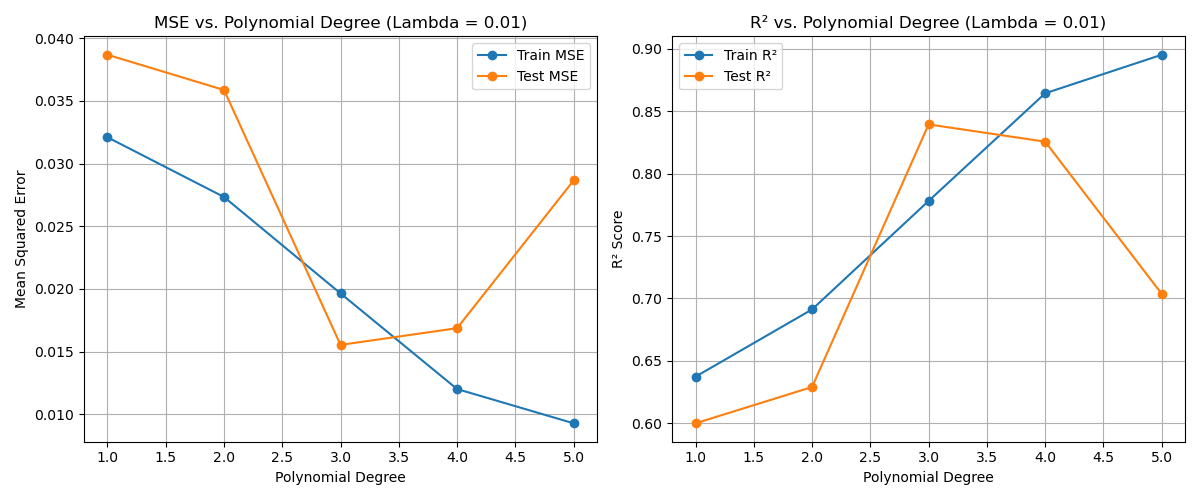
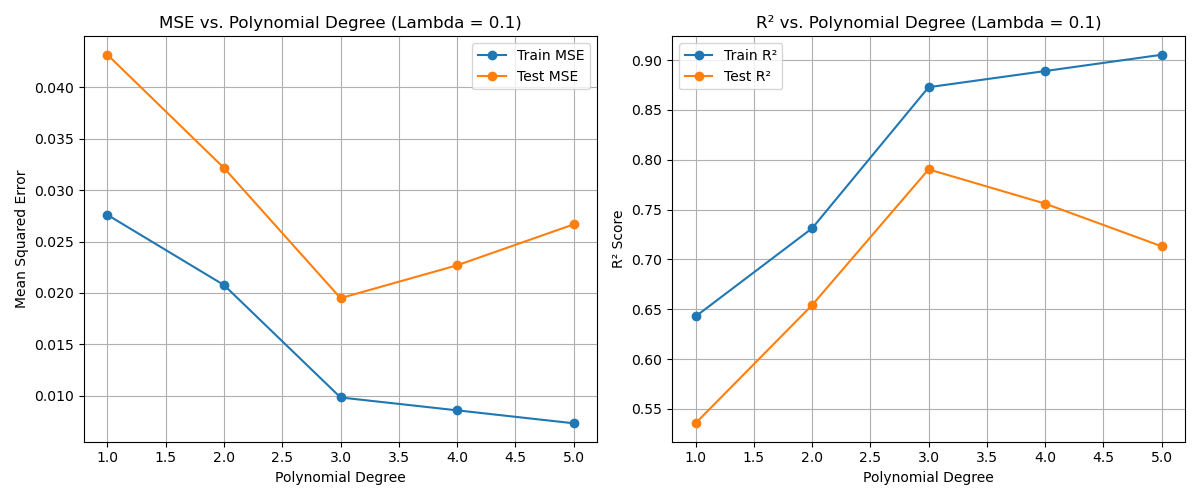
added some plot and refactor.

diff --git a/src/neural_network.py b/src/neural_network.py
@@ -14,8 +14,12 @@ sys.path.append(os.path.dirname(os.path.dirname(os.path.abspath(__file__))))
 from sklearn.metrics import mean_squared_error, r2_score
 from sklearn.model_selection import GridSearchCV, train_test_split
 import numpy as np
-from methods import franke_function, save_plot
-from project1_methods import ols_regression, ridge_regression
+from project1_methods import (
+    ols_regression,
+    ridge_regression,
+    franke_function,
+    save_plot,
+)
 import matplotlib.pyplot as plt
 from sklearn.preprocessing import StandardScaler
 import pandas as pd
@@ -475,7 +479,7 @@ def plot_ols(res):
 
 
 def plot_ridge(result):
-    lambda_to_plot = 0.01  # Choose the lambda value you want to visualize
+    lambda_to_plot = 0.1  # Choose the lambda value you want to visualize
 
     plt.figure(figsize=(12, 5))
 
@@ -529,7 +533,6 @@ if __name__ == "__main__":
     input = sys.argv[1]
     print(input)
     if input == "reg":
-        X_train, X_test, z_train, z_test, scaler_Z = generate_data()
         ols_res = ols_regression()
         plot_ols(ols_res)
 
@@ -538,8 +541,7 @@ if __name__ == "__main__":
 
         ffnn_res = eval_ffnn()
 
-        # print(f"OLS: {ols_res}")
-        # print(f"Ridge: {ridge_res}")
+        X_train, X_test, z_train, z_test, scaler_Z = generate_data()
         param_grid = {
             "learning_rate_init": [0.0001, 0.001, 0.01, 0.1],
             "alpha": [1e-6, 1e-4, 1e-2, 1e-1],

diff --git a/project1_methods.py b/project1_methods.py
@@ -64,7 +64,7 @@ def ols_regression(n=100, noise=0.1, max_degree=5):
 
 
 def ridge_regression(n=100, noise=0.1, max_degree=5):
-    np.random.seed(42)
+    np.random.seed(123)
     n = 100
     x = np.random.uniform(0, 1, n)
     y = np.random.uniform(0, 1, n)
@@ -124,4 +124,24 @@ def ridge_regression(n=100, noise=0.1, max_degree=5):
     return ridge_results_df
 
 
-ridge_regression()
+import os
+import matplotlib.pyplot as plt
+import numpy as np
+
+
+def franke_function(x, y):
+    term1 = 0.75 * np.exp(-(0.25 * (9 * x - 2) ** 2) - 0.25 * ((9 * y - 2) ** 2))
+    term2 = 0.75 * np.exp(-((9 * x + 1) ** 2) / 49.0 - 0.1 * (9 * y + 1))
+    term3 = 0.5 * np.exp(-((9 * x - 7) ** 2) / 4.0 - 0.25 * ((9 * y - 3) ** 2))
+    term4 = -0.2 * np.exp(-((9 * x - 4) ** 2) - (9 * y - 7) ** 2)
+    return term1 + term2 + term3 + term4
+
+
+def save_plot(filename):
+    current_dir = os.path.dirname(os.path.abspath(__file__))
+    output_dir = os.path.join(current_dir, "src", "Figures")
+    os.makedirs(output_dir, exist_ok=True)
+
+    output_file_path = os.path.join(output_dir, f"{filename}.png")
+    plt.savefig(output_file_path)
+    plt.close()
